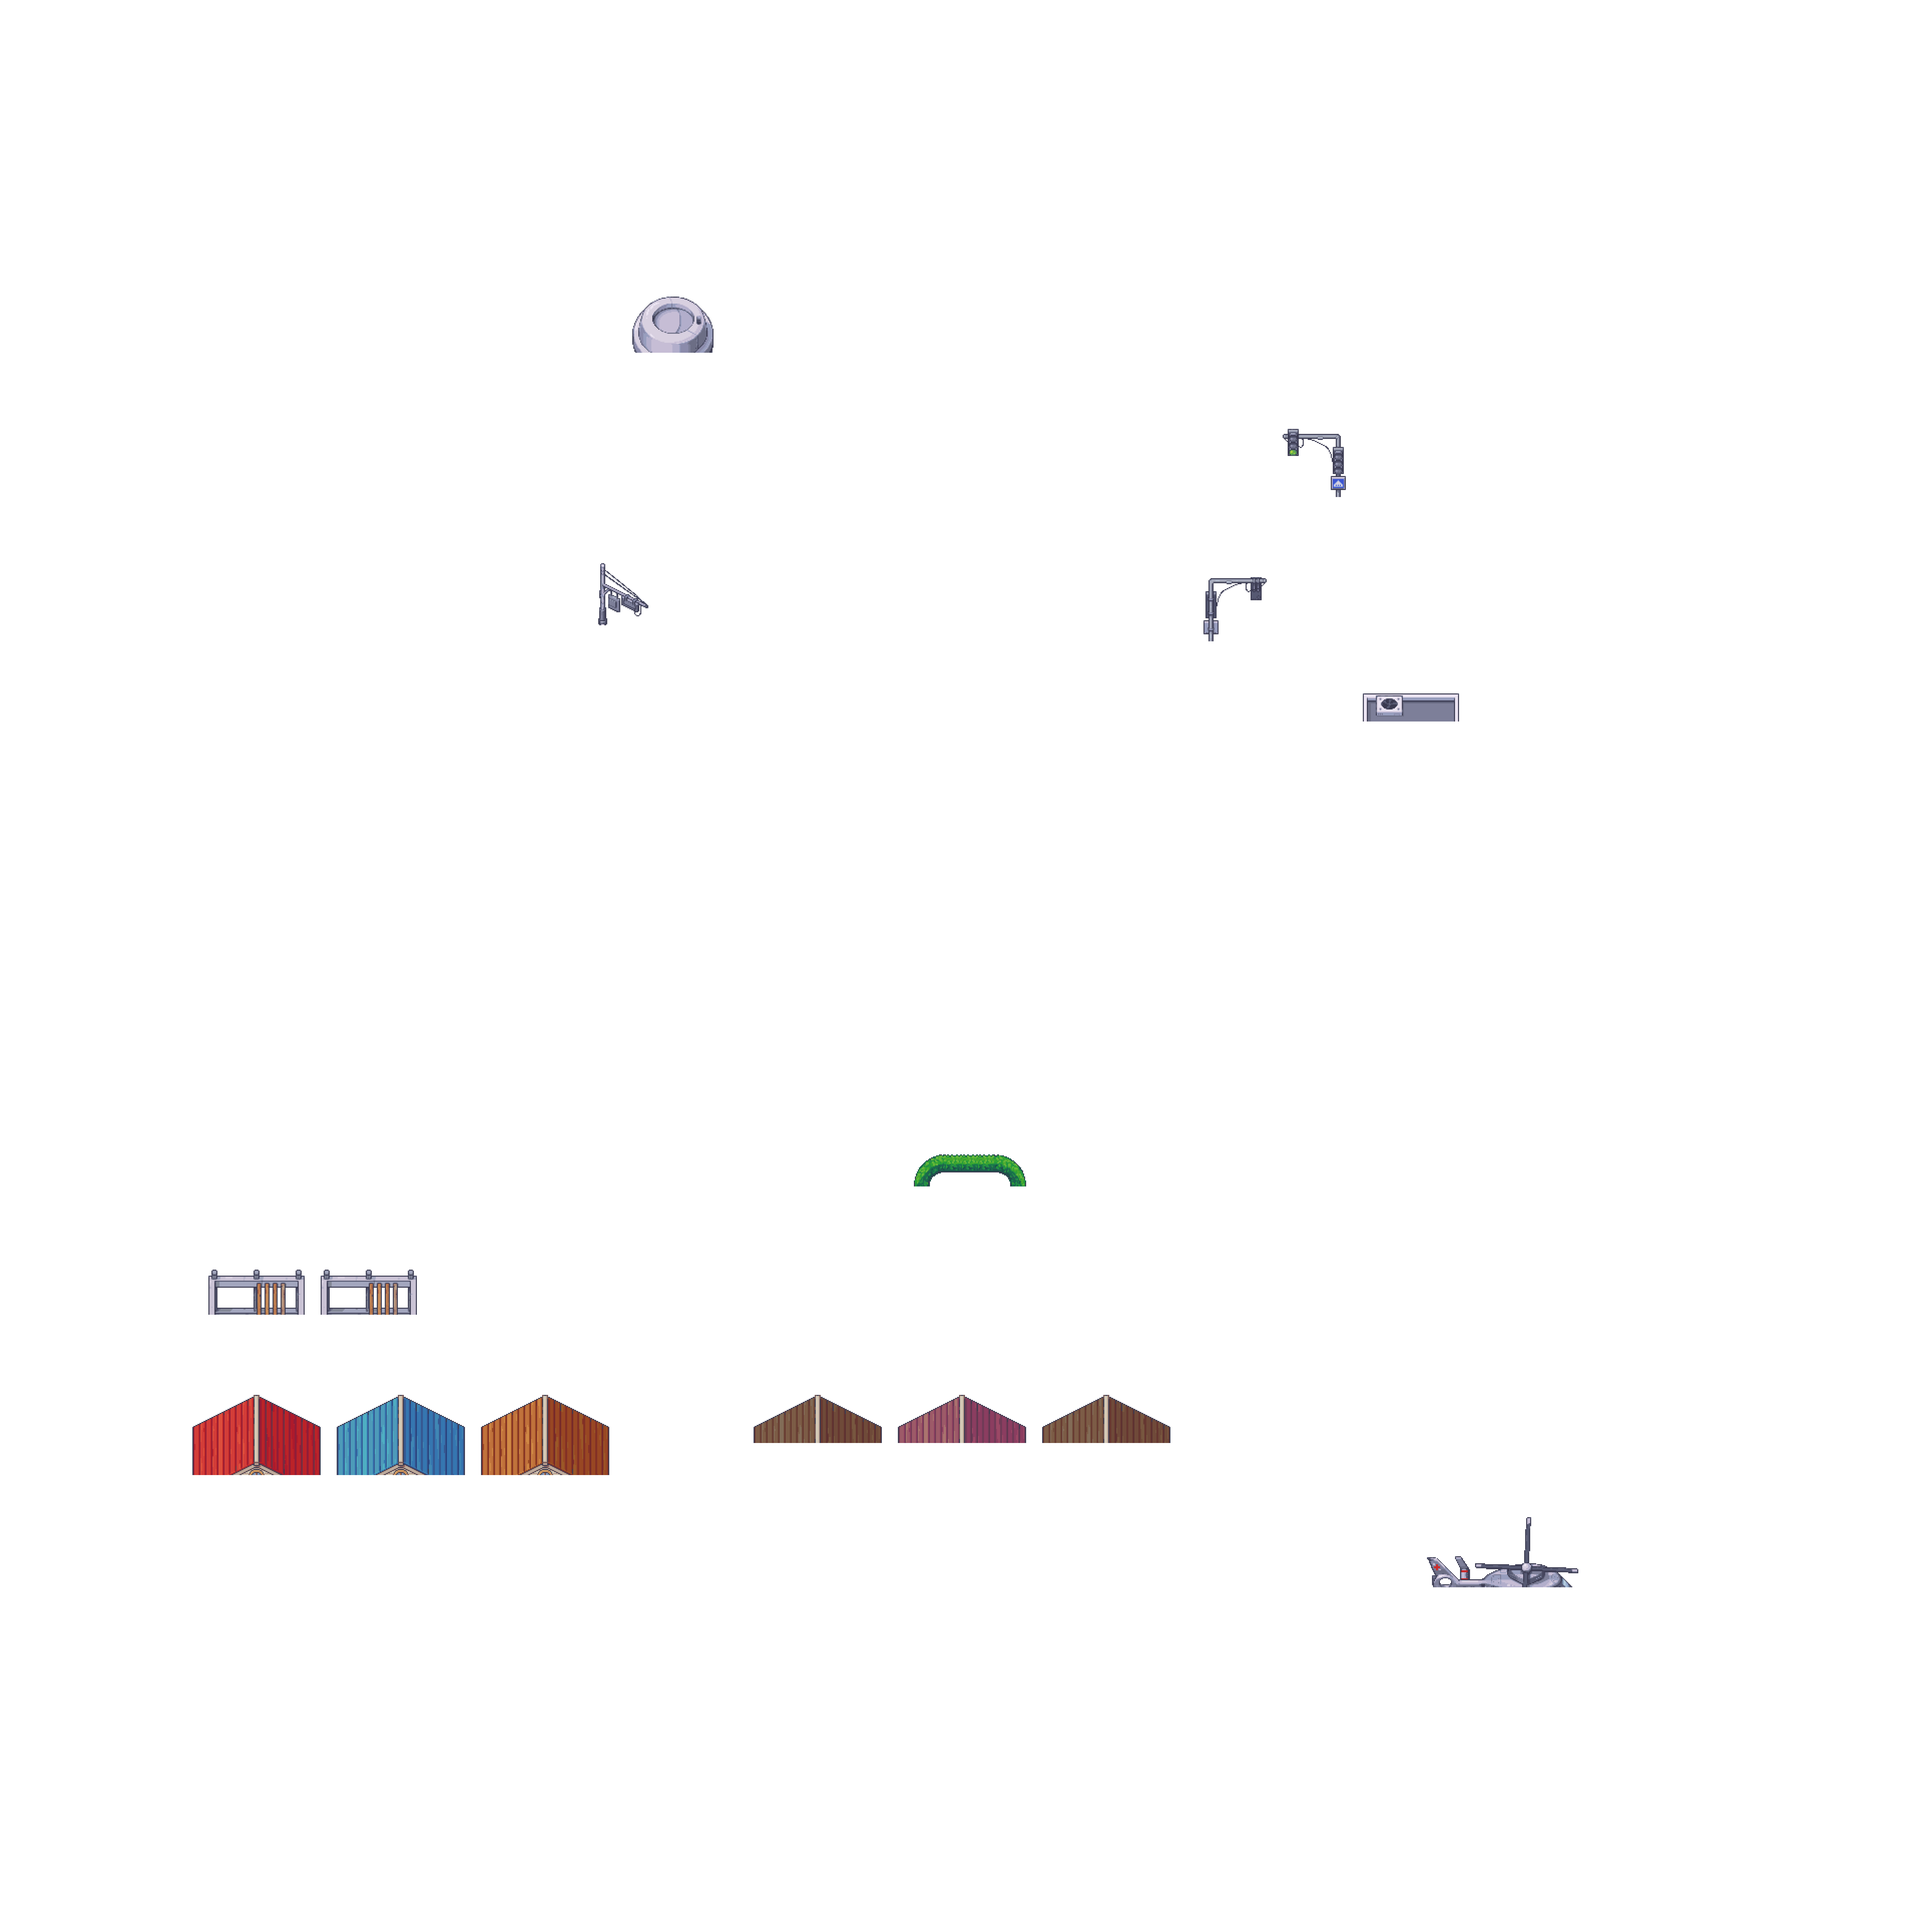
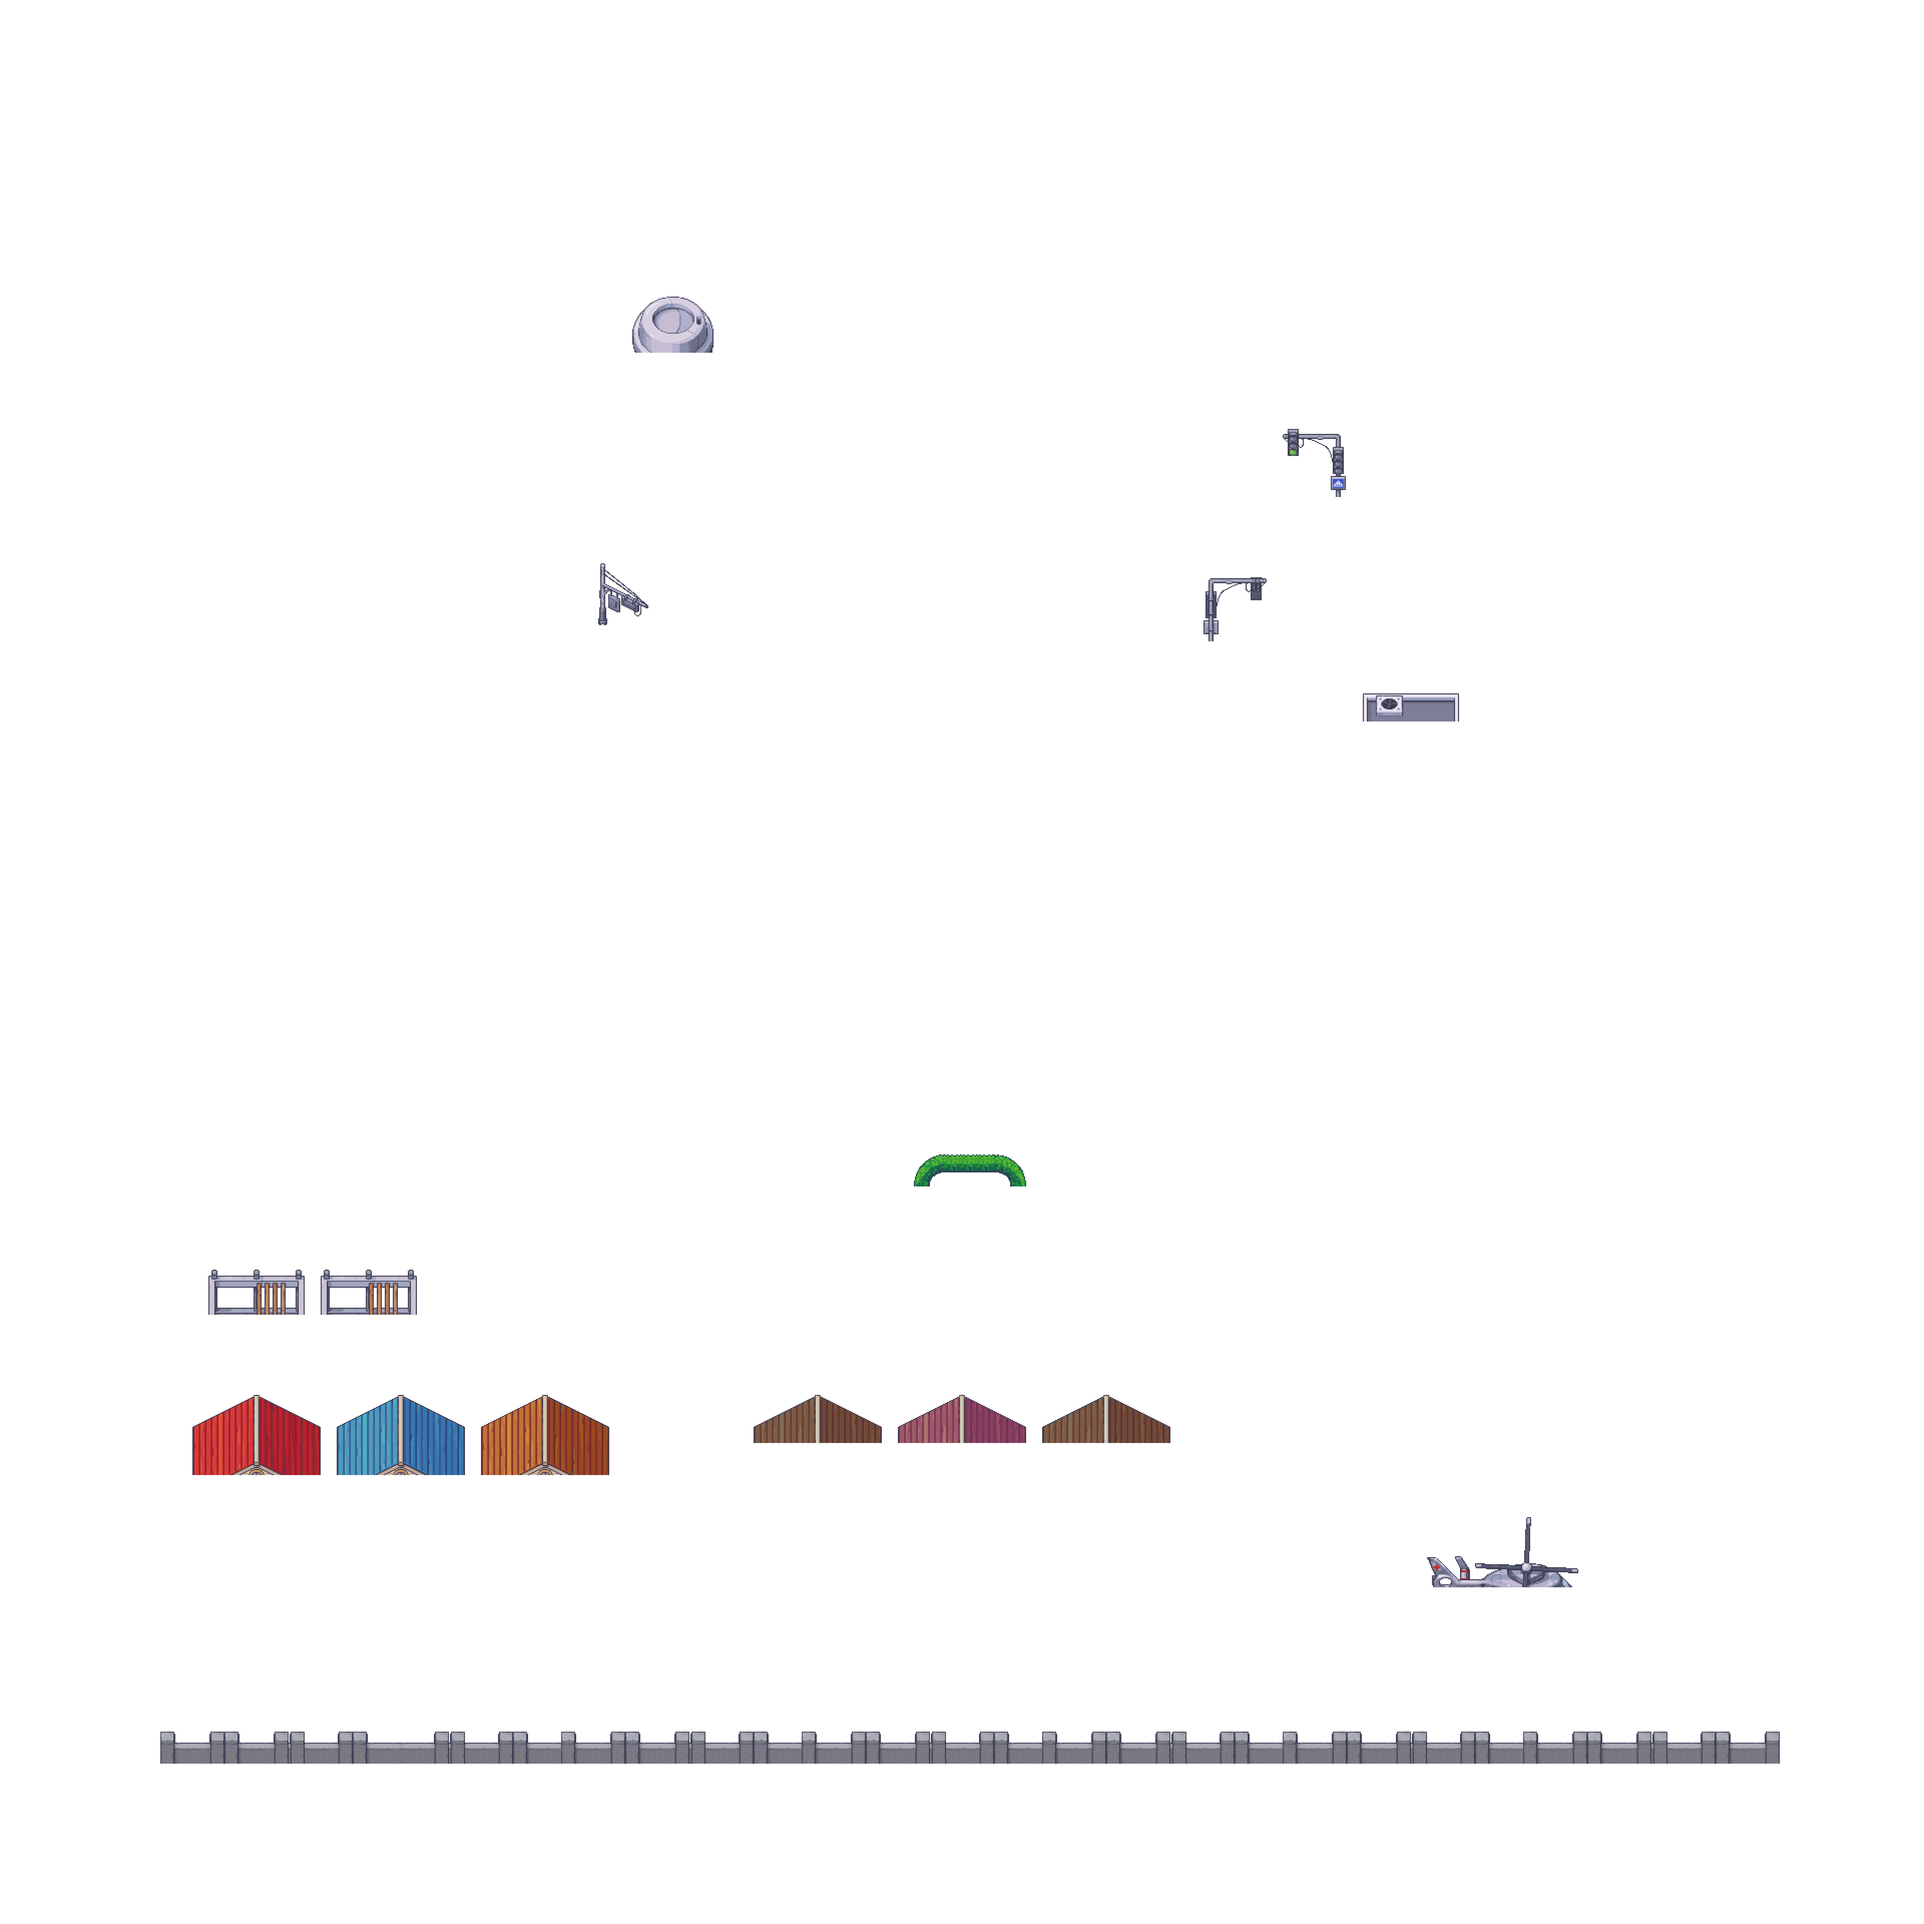
v0.1 fixed bugs

Changed region(s): [[0.0625, 0.875, 0.9375, 0.9375]]

diff --git a/frontend/data/collisions.js b/frontend/data/collisions.js
@@ -107,7 +107,7 @@ const collisions = [0, 0, 0, 0, 0, 0, 0, 0, 0, 0, 0, 0, 0, 0, 0, 0, 0, 0, 0, 0, 
     0, 0, 0, 0, 0, 0, 0, 0, 0, 0, 0, 1479, 0, 1479, 1479, 0, 0, 0, 0, 0, 0, 0, 0, 0, 0, 0, 0, 0, 0, 0, 0, 0, 0, 0, 0, 0, 0, 0, 0, 0, 0, 0, 0, 0, 0, 0, 0, 0, 0, 0, 0, 0, 0, 0, 0, 0, 0, 0, 0, 0, 0, 0, 0, 0, 0, 0, 0, 0, 0, 0, 0, 0, 0, 0, 0, 0, 0, 0, 0, 0, 0, 0, 0, 0, 0, 0, 0, 0, 0, 0, 0, 0, 0, 0, 0, 0, 0, 0, 0, 0, 0, 0, 0, 0, 0, 0, 0, 0, 0, 0, 1475, 0, 0, 0, 0, 0, 0, 0, 0, 0,
     0, 0, 0, 0, 0, 0, 0, 0, 0, 0, 1479, 1479, 0, 1479, 1479, 0, 0, 0, 0, 0, 0, 0, 0, 0, 0, 0, 0, 0, 0, 0, 0, 0, 0, 0, 0, 0, 0, 0, 0, 0, 0, 0, 0, 0, 0, 0, 0, 0, 0, 0, 0, 0, 0, 0, 0, 0, 0, 0, 0, 0, 0, 0, 0, 0, 0, 0, 0, 0, 0, 0, 0, 0, 0, 0, 0, 0, 0, 0, 0, 0, 0, 0, 0, 0, 0, 0, 0, 0, 0, 0, 0, 0, 0, 0, 0, 0, 0, 0, 0, 0, 0, 0, 0, 0, 0, 0, 0, 0, 0, 0, 1475, 0, 0, 0, 0, 0, 0, 0, 0, 0,
     0, 0, 0, 0, 0, 0, 0, 0, 0, 0, 1479, 0, 0, 1479, 1479, 0, 0, 0, 0, 0, 0, 0, 0, 0, 0, 0, 0, 0, 0, 0, 0, 0, 0, 0, 0, 0, 0, 0, 0, 0, 0, 0, 0, 0, 0, 0, 0, 0, 0, 0, 0, 0, 0, 0, 0, 0, 0, 0, 0, 0, 0, 0, 0, 0, 0, 0, 0, 0, 0, 0, 0, 0, 0, 0, 0, 0, 0, 0, 0, 0, 0, 0, 0, 0, 0, 0, 0, 0, 0, 0, 0, 0, 0, 0, 0, 0, 0, 0, 0, 0, 0, 0, 0, 0, 0, 0, 0, 0, 0, 0, 1475, 0, 0, 0, 0, 0, 0, 0, 0, 0,
-    0, 0, 0, 0, 0, 0, 0, 0, 0, 0, 1479, 0, 0, 0, 0, 0, 0, 0, 0, 0, 0, 0, 0, 0, 0, 0, 0, 0, 0, 0, 0, 0, 0, 0, 0, 0, 0, 0, 0, 0, 0, 0, 0, 0, 0, 0, 0, 0, 0, 0, 0, 0, 0, 0, 0, 0, 0, 0, 0, 0, 0, 0, 0, 0, 0, 0, 0, 0, 0, 0, 0, 0, 0, 0, 0, 0, 0, 0, 0, 0, 0, 0, 0, 0, 0, 0, 0, 0, 0, 0, 0, 0, 0, 0, 0, 0, 0, 0, 0, 0, 0, 0, 0, 0, 0, 0, 0, 0, 0, 0, 1475, 0, 0, 0, 0, 0, 0, 0, 0, 0,
+    0, 0, 0, 0, 0, 0, 0, 0, 0, 0, 1479, 1475, 1475, 1475, 1475, 1475, 1475, 1475, 1475, 1475, 1475, 1475, 1475, 1475, 1475, 1475, 1475, 1475, 1475, 1475, 1475, 1475, 1475, 1475, 1475, 1475, 1475, 1475, 1475, 1475, 1475, 1475, 1475, 1475, 1475, 1475, 1475, 1475, 1475, 1475, 1475, 1475, 1475, 1475, 1475, 1475, 1475, 1475, 1475, 1475, 1475, 1475, 1475, 1475, 1475, 1475, 1475, 1475, 1475, 1475, 1475, 1475, 1475, 1475, 1475, 1475, 1475, 1475, 1475, 1475, 1475, 1475, 1475, 1475, 1475, 1475, 1475, 1475, 1475, 1475, 1475, 1475, 1475, 1475, 1475, 1475, 1475, 1475, 1475, 1475, 1475, 1475, 1475, 1475, 1475, 1475, 1475, 1475, 1475, 1475, 1475, 0, 0, 0, 0, 0, 0, 0, 0, 0,
     0, 0, 0, 0, 0, 0, 0, 0, 0, 1475, 1475, 1475, 1475, 1475, 1475, 1475, 1475, 1475, 1475, 1475, 1475, 1475, 1475, 1475, 1475, 1475, 1475, 1475, 1475, 1475, 1475, 1475, 1475, 1475, 1475, 1475, 1475, 1475, 1475, 1475, 1475, 1475, 1475, 1475, 1475, 1475, 1475, 1475, 1475, 1475, 1475, 1475, 1475, 1475, 1475, 1475, 1475, 1475, 1475, 1475, 1475, 1475, 1475, 1475, 1475, 1475, 1475, 1475, 1475, 1475, 1475, 1475, 1475, 1475, 1475, 1475, 1475, 1475, 1475, 1475, 1475, 1475, 1475, 1475, 1475, 1475, 1475, 1475, 1475, 1475, 1475, 1475, 1475, 1475, 1475, 1475, 1475, 1475, 1475, 1475, 1475, 1475, 1475, 1475, 1475, 1475, 1475, 1475, 1475, 1475, 1475, 0, 0, 0, 0, 0, 0, 0, 0, 0,
     0, 0, 0, 0, 0, 0, 0, 0, 0, 0, 0, 0, 0, 0, 0, 0, 0, 0, 0, 0, 0, 0, 0, 0, 0, 0, 0, 0, 0, 0, 0, 0, 0, 0, 0, 0, 0, 0, 0, 0, 0, 0, 0, 0, 0, 0, 0, 0, 0, 0, 0, 0, 0, 0, 0, 0, 0, 0, 0, 0, 0, 0, 0, 0, 0, 0, 0, 0, 0, 0, 0, 0, 0, 0, 0, 0, 0, 0, 0, 0, 0, 0, 0, 0, 0, 0, 0, 0, 0, 0, 0, 0, 0, 0, 0, 0, 0, 0, 0, 0, 0, 0, 0, 0, 0, 0, 0, 0, 0, 0, 0, 0, 0, 0, 0, 0, 0, 0, 0, 0,
     0, 0, 0, 0, 0, 0, 0, 0, 0, 0, 0, 0, 0, 0, 0, 0, 0, 0, 0, 0, 0, 0, 0, 0, 0, 0, 0, 0, 0, 0, 0, 0, 0, 0, 0, 0, 0, 0, 0, 0, 0, 0, 0, 0, 0, 0, 0, 0, 0, 0, 0, 0, 0, 0, 0, 0, 0, 0, 0, 0, 0, 0, 0, 0, 0, 0, 0, 0, 0, 0, 0, 0, 0, 0, 0, 0, 0, 0, 0, 0, 0, 0, 0, 0, 0, 0, 0, 0, 0, 0, 0, 0, 0, 0, 0, 0, 0, 0, 0, 0, 0, 0, 0, 0, 0, 0, 0, 0, 0, 0, 0, 0, 0, 0, 0, 0, 0, 0, 0, 0,
